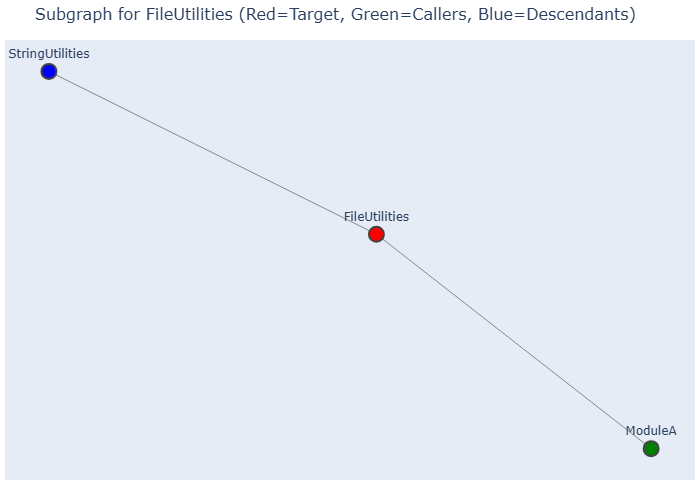
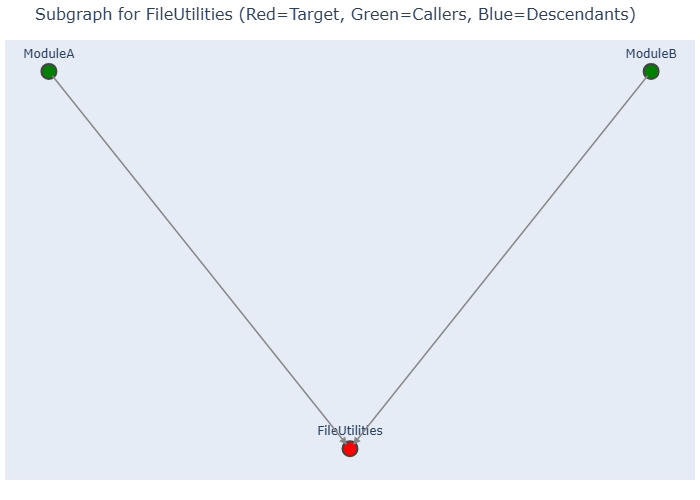
improved the visualization of dependencies

diff --git a/scripts/src/scripts/analyze_dependencies.py b/scripts/src/scripts/analyze_dependencies.py
@@ -59,32 +59,115 @@ def find_root_nodes(G: nx.DiGraph) -> List[str]:
     return [n for n, d in G.in_degree() if d == 0]
 
 
+def get_layered_layout(G: nx.DiGraph, horizontal_spacing: float = 2.0, vertical_spacing: float = 2.0) -> Dict[str, tuple]:
+    """
+    Creates a layered, hierarchical layout for a directed graph.
+    Nodes are arranged in layers based on their topological sort order.
+    Assumes the graph is a Directed Acyclic Graph (DAG).
+
+    Args:
+        G: The NetworkX DiGraph.
+        horizontal_spacing: The horizontal distance between nodes in the same layer.
+        vertical_spacing: The vertical distance between layers.
+
+    Returns:
+        A dictionary of positions keyed by node.
+    """
+    # This method works for DAGs. Since the script checks for cycles, any remaining
+    # unvisited nodes would be part of a disconnected component.
+    layers = {}
+    if not G.nodes():
+        return {}
+
+    # Start with root nodes (in-degree 0)
+    current_layer_nodes = [n for n, d in G.in_degree() if d == 0]
+    layer_num = 0
+    visited = set()
+
+    while current_layer_nodes:
+        # Sort nodes for deterministic layout
+        sorted_nodes = sorted(list(set(current_layer_nodes)))
+        layers[layer_num] = sorted_nodes
+        visited.update(sorted_nodes)
+
+        next_layer_nodes = []
+        for node in sorted_nodes:
+            for successor in G.successors(node):
+                if successor not in visited:
+                    # A node is in the next layer if all its parents are in current or previous layers
+                    is_ready = True
+                    for pred in G.predecessors(successor):
+                        if pred not in visited:
+                            is_ready = False
+                            break
+                    if is_ready:
+                        next_layer_nodes.append(successor)
+
+        current_layer_nodes = next_layer_nodes
+        layer_num += 1
+
+    # Assign positions
+    pos = {}
+    for layer_num, nodes in layers.items():
+        # y-coordinate is based on layer number (top-down)
+        y = -layer_num * vertical_spacing
+        num_nodes_in_layer = len(nodes)
+        # x-coordinate is spaced out to center the layer
+        layer_width = (num_nodes_in_layer - 1) * horizontal_spacing
+        x_start = -layer_width / 2.0
+        for i, node in enumerate(nodes):
+            x = x_start + i * horizontal_spacing
+            pos[node] = (x, y)
+
+    # Handle any remaining nodes (e.g., nodes in cycles if they exist) by placing them at the bottom.
+    remaining_nodes = sorted(list(set(G.nodes()) - visited))
+    if remaining_nodes:
+        y = -layer_num * vertical_spacing
+        num_nodes_in_layer = len(remaining_nodes)
+        layer_width = (num_nodes_in_layer - 1) * horizontal_spacing
+        x_start = -layer_width / 2.0
+        for i, node in enumerate(remaining_nodes):
+            x = x_start + i * horizontal_spacing
+            pos[node] = (x, y)
+            
+    return pos
+
+
 def plot_graph(
-    G: nx.DiGraph, output_path: str, title: str = "Dependency Graph", node_colors: Optional[Dict[str, str]] = None
+    G: nx.DiGraph,
+    output_path: str,
+    title: str = "Dependency Graph",
+    node_colors: Optional[Dict[str, str]] = None,
+    h_spacing: float = 2.0,
+    v_spacing: float = 2.0,
 ) -> None:
     """
     Plots the directed graph using Plotly and saves it to an image file.
     """
-    # Calculate layout for node positions
-    pos = nx.spring_layout(G, seed=42, k=0.5, iterations=50)
+    if not G.nodes():
+        print("Warning: Graph is empty, nothing to plot.")
+        return
 
-    edge_x = []
-    edge_y = []
-    
-    # Create edge traces
+    # Calculate layout for node positions using a layered approach
+    pos = get_layered_layout(G, horizontal_spacing=h_spacing, vertical_spacing=v_spacing)
+
+    # To draw arrows, we use annotations instead of a single scatter trace for edges.
+    annotations = []
     for edge in G.edges():
         x0, y0 = pos[edge[0]]
         x1, y1 = pos[edge[1]]
-        edge_x.extend([x0, x1, None])
-        edge_y.extend([y0, y1, None])
-
-    edge_trace = go.Scatter(
-        x=edge_x,
-        y=edge_y,
-        line=dict(width=1, color="#888"),
-        hoverinfo="none",
-        mode="lines",
-    )
+        annotations.append(
+            go.layout.Annotation(
+                ax=x0, ay=y0, axref='x', ayref='y',
+                x=x1, y=y1, xref='x', yref='y',
+                showarrow=True,
+                arrowhead=2,
+                arrowsize=1,
+                arrowwidth=1.5,
+                arrowcolor='#888',
+                standoff=5  # Increase gap between arrow and node
+            )
+        )
 
     node_x = []
     node_y = []
@@ -113,7 +196,7 @@ def plot_graph(
     )
 
     fig = go.Figure(
-        data=[edge_trace, node_trace],
+        data=[node_trace],
         layout=go.Layout(
             title=dict(text=title, font=dict(size=16)),
             showlegend=False,
@@ -121,6 +204,7 @@ def plot_graph(
             margin=dict(b=20, l=5, r=5, t=40),
             xaxis=dict(showgrid=False, zeroline=False, showticklabels=False),
             yaxis=dict(showgrid=False, zeroline=False, showticklabels=False),
+            annotations=annotations,
         ),
     )
     # Disable mathjax to prevent potential Kaleido hangs/errors on Windows
@@ -128,7 +212,9 @@ def plot_graph(
     fig.write_image(output_path)
 
 
-def analyze_node_and_plot(G: nx.DiGraph, node_name: str, output_path: str) -> None:
+def analyze_node_and_plot(
+    G: nx.DiGraph, node_name: str, output_path: str, h_spacing: float, v_spacing: float
+) -> None:
     """
     Finds descendants and callers (ancestors) of a node and plots the subgraph.
     """
@@ -164,6 +250,8 @@ def analyze_node_and_plot(G: nx.DiGraph, node_name: str, output_path: str) -> No
         output_path=output_path,
         title=f"Subgraph for {node_name} (Red=Target, Green=Callers, Blue=Descendants)",
         node_colors=node_colors,
+        h_spacing=h_spacing,
+        v_spacing=v_spacing,
     )
 
 
@@ -187,6 +275,18 @@ def main():
         default=".",
         help="Root directory to save reports (default: current directory)",
     )
+    parser.add_argument(
+        "--h-spacing",
+        type=float,
+        default=2.0,
+        help="Horizontal spacing between nodes in the same layer (default: 2.0)",
+    )
+    parser.add_argument(
+        "--v-spacing",
+        type=float,
+        default=2.0,
+        help="Vertical spacing between layers (default: 2.0)",
+    )
 
     args = parser.parse_args()
 
@@ -202,10 +302,16 @@ def main():
 
         if args.node:
             output_path = os.path.join(reports_dir, f"{args.node}_dependency_graph.png")
-            analyze_node_and_plot(G, args.node, output_path)
+            analyze_node_and_plot(G, args.node, output_path, args.h_spacing, args.v_spacing)
         else:
             output_path = os.path.join(reports_dir, "full_dependency_graph.png")
-            plot_graph(G, output_path, title="Full Dependency Graph")
+            plot_graph(
+                G,
+                output_path,
+                title="Full Dependency Graph",
+                h_spacing=args.h_spacing,
+                v_spacing=args.v_spacing,
+            )
 
         print(f"Graph exported to: {os.path.abspath(output_path)}")
 

diff --git a/scripts/src/scripts/generate_dependency_graph_for_selected_nodes.py b/scripts/src/scripts/generate_dependency_graph_for_selected_nodes.py
@@ -8,6 +8,18 @@ def main():
     parser.add_argument("--file", default="Source/ActualDependencies", help="Path to .adeps file or directory")
     parser.add_argument("--nodes", nargs='+', required=True, help="List of nodes to analyze")
     parser.add_argument("--output-dir", default="reports", help="Directory to save output images")
+    parser.add_argument(
+        "--h-spacing",
+        type=float,
+        default=2.0,
+        help="Horizontal spacing between nodes in the same layer (default: 2.0)",
+    )
+    parser.add_argument(
+        "--v-spacing",
+        type=float,
+        default=2.0,
+        help="Vertical spacing between layers (default: 2.0)",
+    )
     args = parser.parse_args()
 
     try:
@@ -16,7 +28,7 @@ def main():
         
         for node in args.nodes:
             output_path = os.path.join(args.output_dir, f"{node}_dependency_graph.png")
-            analyze_dependencies.analyze_node_and_plot(G, node, output_path)
+            analyze_dependencies.analyze_node_and_plot(G, node, output_path, args.h_spacing, args.v_spacing)
             print(f"Graph for '{node}' saved to {output_path}")
             
     except Exception as e:
@@ -27,5 +39,5 @@ if __name__ == "__main__":
     # Debugging: Inject arguments if none are passed via command line
     if len(sys.argv) == 1:
         # Simulate: python script.py --nodes ModuleA ModuleB
-        sys.argv.extend(["--nodes", "ModuleA", "FileUtilities"])
+        sys.argv.extend(["--nodes", "ModuleA", "FileUtilities", "ModuleB"])
     main()
